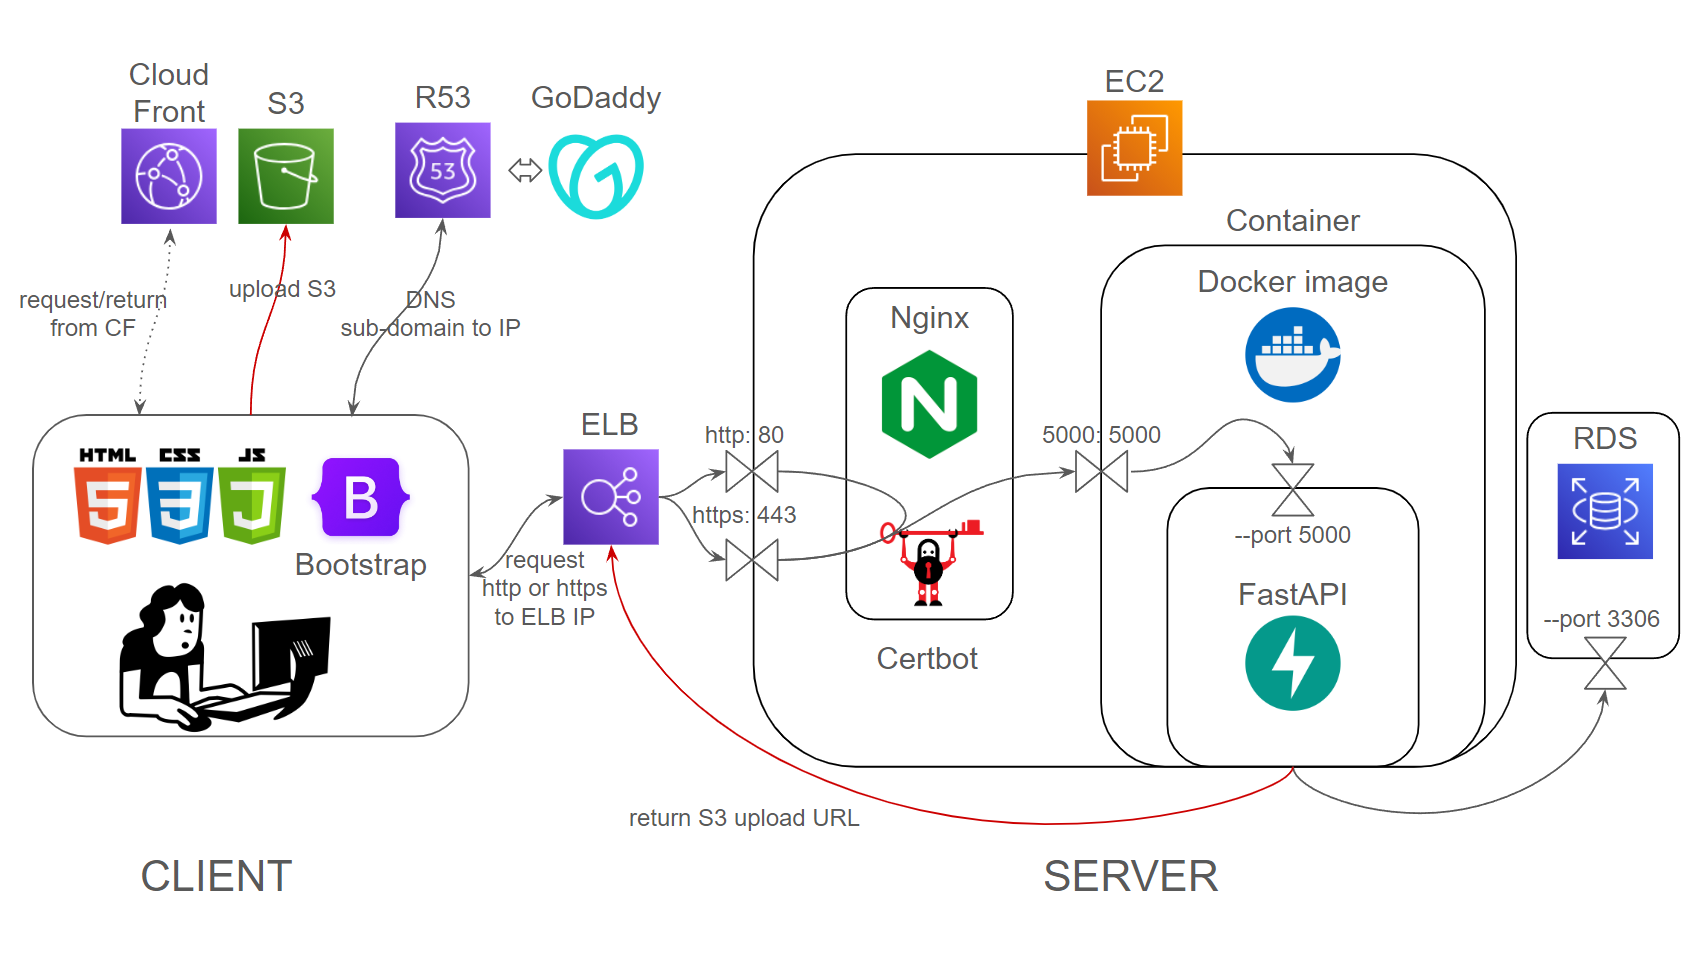
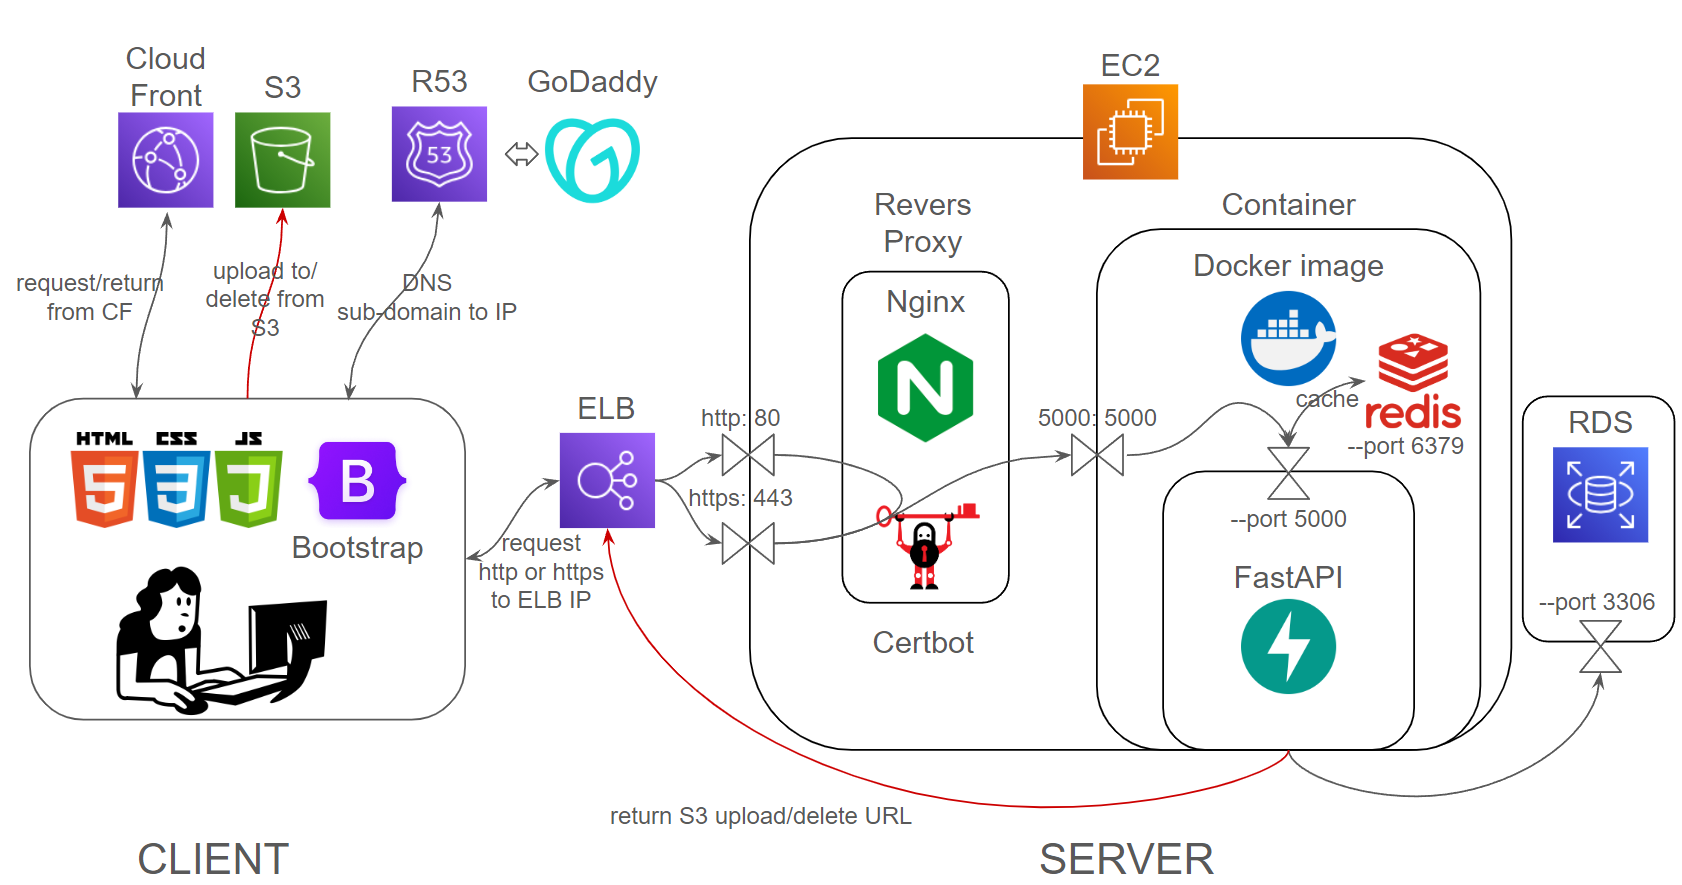
MODIFY: README

diff --git a/README.md b/README.md
@@ -16,6 +16,8 @@
 8. System integrates with user-selected platform for payment processing:
    - Credit card
    - Line Pay
+   - Jko Pay
+   - Easy Wallet
 9. Payment successful, system grants "exit allowed" status to vehicle for 15 minutes.
    - If vehicle information isn't removed after 15 minutes, system restarts entry time calculation.
 10. Vehicle exits, client system reads license plate number, front-end verifies the number, calls system API with license plate number.
@@ -43,9 +45,24 @@ User with admin privilege can:
 1. 15 nearest parking lots within 3km from user will be shown on map for user to choose from.
 2. Website will return realtime vacancy of parking lot when you click on them (either on list or map).
 
-## Backend Structure
+## Application Structure
 
 ![backend strucuture](https://parkinglot.haohaoscreamandrun.online/public/images/backend-structure.png)
+
+- Domain
+   1. GoDaddy domain name, hosted and routed by AWS Route53.
+- Back-end
+   1. Server built with Python FastAPI
+   2. AWS RDS MySQL database
+   3. Cache with Redis
+   4. Deploy with Docker images on AWS EC2 machine
+   5. Reverse proxy with Nginx
+   6. Connection distribute by AWS Load Balancer
+   7. Store images on AWS S3 bucket and cache at edge location by AWS CloudFront
+- Front-end
+   1. Built with Bootstrap toolkit
+   2. Google maps API for map
+   3. OpenCV.js & Tesseract.js for car license plate recognition
 
 ## Database structure EER and index
 
@@ -56,67 +73,16 @@ User with admin privilege can:
 Spatial index is used to speed up the query:
 
 1. Create spatial index on POINT type data and insert data
-
-   ```python
-   sql = '''CREATE TABLE parking_lot( \
-   id BIGINT AUTO_INCREMENT PRIMARY KEY, \
-      name VARCHAR(50) NOT NULL, \
-      coordinate POINT NOT NULL SRID 4326, \
-         address VARCHAR(225), \
-         total_space INT NOT NULL, \
-            parking_fee INT NOT NULL, \
-               admin_id BIGINT NOT NULL, \
-               FOREIGN KEY (admin_id) REFERENCES admin(id),\
-                  SPATIAL INDEX(coordinate))
-                  '''
-   sql = '''
-   INSERT INTO parking_lot\
-   (name, coordinate, address, total_space, parking_fee, admin_id)\
-      VALUES (%s, ST_GeomFromText('POINT(%s %s)', 4326), %s, %s, %s, %s)
-      '''
-   ```
-
 2. Calculate bounding box with radius
-
-   ```python
-   degrees_lat = radius / 111320
-
-   degrees_lng = radius / (111320 * math.cos(math.radians(lat)))
-   min_lat = lat - degrees_lat
-   max_lat = lat + degrees_lat
-   min_lng = lng - degrees_lng
-   max_lng = lng + degrees_lng
-   bounding_box = f'''
-   POLYGON((\
-      {min_lat} {min_lng},\
-      {max_lat} {min_lng},\
-      {max_lat} {max_lng},\
-      {min_lat} {max_lng},\
-      {min_lat} {min_lng}\
-      ))
-    '''
-   ```
-
 3. Use MBRfunction to utilize spatial index
 
-   ```python
-   sql = '''
-   SELECT id,\
-      name,\
-      ST_Longitude(coordinate) AS longitude,\
-         ST_Latitude(coordinate) AS latitude,\
-         address,\
-            total_space,\
-               parking_fee,\
-               admin_id,\
-                  ST_Distance_Sphere(coordinate, ST_GeomFromText('POINT(%s %s)', 4326)) AS distance\
-                     FROM parking_lot \
-                     WHERE MBRContains(ST_GeomFromText(%s, 4326), coordinate)\
-                        AND ST_Distance_Sphere(coordinate, ST_GeomFromText('POINT(%s %s)', 4326)) < %s \
-                           ORDER BY distance LIMIT %s;
-                           '''
-   val = (lat, lng, bounding_box, lat, lng, radius, number)
-   ```
+Comparison of query with or without spatial index:
+
+| Compare | No index | Spatial Index |
+|||(Bounding box method)|
+|:--|:--|:--|
+| Cost of CPU | 316 Unit | 45.3 Unit |
+| Time | 16.4 milliseconds | 2.66 milliseconds |
 
 ## Utilized Package
 
@@ -148,3 +114,4 @@ Spatial index is used to speed up the query:
 | typer                    | 0.12.3     |
 | typing_extensions        | 4.11.0     |
 | uvicorn                  | 0.29.0     |
+| redis                    | 5.0.8      |
